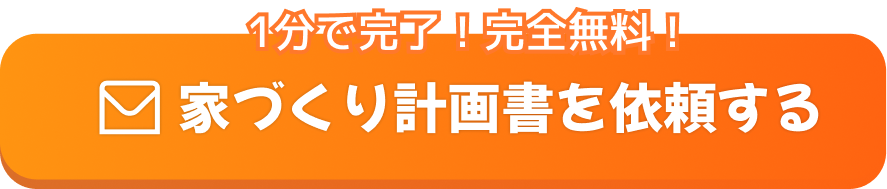
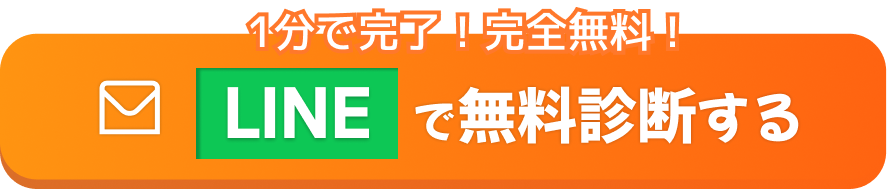
[Mod] line cv

Changed region(s): [[0.1826, 0.3439, 0.9436, 0.8466]]

diff --git a/index.html b/index.html
@@ -21,7 +21,7 @@
         <span></span>
       </button>
       <nav class="header-nav" id="headerNav">
-        <a href="#section2" class="nav-item">住まぽとは</a>
+        <a href="#section2" class="nav-item">住まぽちとは</a>
         <a href="#section4" class="nav-item">選ばれる理由</a>
         <a href="#section3" class="nav-item">安心サポート</a>
         <a href="#section8" class="nav-item">ご利用の流れ</a>
@@ -34,17 +34,19 @@
   <section class="main-section" style="background-image: url(img/main_bg.png)">
     <div class="main-content">
       <div class="main-left">
-        <img src="img/main_text2.png" alt="" class="main-text2" />
-        <img src="img/main_text1.png" alt="" class="main-text1" />
-        <img src="img/main_text3.png" alt="" class="main-text3" />
-        <a href="#" class="main-cv-btn-pc"><img src="img/cv_button01.png" alt="" class="main-text4" /></a>
+        <img src="img/main_text2.png" alt="あなたの希望を叶える家作りのプロを紹介" class="main-text2" />
+        <img src="img/main_text1.png" alt="あなたに一番合ったハウスメーカーと担当者を厳選して紹介いたします！" class="main-text1" />
+        <img src="img/main_text3.png" alt="全国店舗64店舗、工務店数1001社、相談実績1万人" class="main-text3" />
+        <a href="#" class="main-cv-btn-pc">
+          <img src="img/cv_button01.png" class="main-text4" alt="1分で完了!完全無料!LINEで無料診断" />
+        </a>
       </div>
       <div class="main-right">
-        <img src="img/main_circle.png" alt="" class="main-circle" />
-        <img src="img/main_house.png" alt="" class="main-house" />
-        <img src="img/campaign_small.png" alt="キャンペーン" class="main-campaign" />
+        <img src="img/main_circle.png" alt="サービス完全無料!" class="main-circle" />
+        <img src="img/main_house.png" alt="夫婦" class="main-house" />
+        <img src="img/campaign_small.png" alt="Amazonギフト券5,000円分を必ずプレゼント!!" class="main-campaign" />
       </div>
-      <a href="#" class="main-cv-btn-sp"><img src="img/cv_button01.png" alt="" class="main-text4" /></a>
+      <a href="#" class="main-cv-btn-sp"><img src="img/cv_button01.png" alt="1分で完了!完全無料!LINEで無料診断する" class="main-text4" /></a>
     </div>
   </section>
 
@@ -52,7 +54,7 @@
   <section class="section2" id="section2">
     <div class="section-title-wrapper">
       <h2 class="section-title">
-        <img src="img/home_icon.png" alt="" class="title-icon" />
+        <img src="img/home_icon.png" alt="ホームアイコン" class="title-icon" />
         <img src="img/logo.png" alt="住まぽち" class="title-logo" />とは？
       </h2>
     </div>
@@ -65,14 +67,14 @@
         </p>
       </div>
     </div>
-    <a href="#"><img src="img/cv_button01.png" alt="" class="section2-btn" /></a>
+    <a href="#"><img src="img/cv_button01.png" alt="1分で完了!完全無料!LINEで無料診断する" class="section2-btn" /></a>
   </section>
 
   <!-- Section 4 -->
   <section class="section4" id="section4">
     <div class="section-title-wrapper">
       <h2 class="section-title">
-        <img src="img/home_icon.png" alt="" class="title-icon" />
+        <img src="img/home_icon.png" alt="ホームアイコン" class="title-icon" />
         <img src="img/logo.png" alt="住まぽち" class="title-logo" />が<span class="highlight-orange">選ばれる理由</span>
       </h2>
     </div>
@@ -82,7 +84,7 @@
         <h4 class="reason-title">専門アドバイザーが最初から最後まで丁寧にサポート</h4>
         <div class="reason-content">
           <div class="reason-image-wrapper">
-            <img src="img/section3_img3.png" alt="" class="reason-image" />
+            <img src="img/section3_img3.png" alt="専門アドバイザーが最初から最後まで丁寧にサポート" class="reason-image" />
           </div>
           <p class="reason-text">
             専門アドバイザーが最初から最後まで丁寧にサポート。家づくりの不安や疑問をすぐに解消できるから、初めての方でも安心して進められます。
@@ -94,7 +96,7 @@
         <h4 class="reason-title">審査を通過した優良工務店のみをご紹介</h4>
         <div class="reason-content">
           <div class="reason-image-wrapper">
-            <img src="img/section3_img1.jpg" alt="" class="reason-image" />
+            <img src="img/section3_img1.jpg" alt="審査を通過した優良工務店のみをご紹介" class="reason-image" />
           </div>
           <p class="reason-text">
             審査を通過した優良工務店のみをご紹介。しつこい営業は一切なく、お断り代行も対応するので気軽にご相談いただけます。
@@ -106,7 +108,7 @@
         <h4 class="reason-title">あなた専用の家づくり計画書を無料で作成</h4>
         <div class="reason-content">
           <div class="reason-image-wrapper">
-            <img src="img/section3_img2.png" alt="" class="reason-image" />
+            <img src="img/section3_img2.png" alt="あなた専用の家づくり計画書を無料で作成" class="reason-image" />
           </div>
           <p class="reason-text">
             あなた専用の家づくり計画書を無料で作成。予算・希望に合わせた最適なプランをご提案し、契約後もしっかりフォローします。
@@ -115,14 +117,14 @@
       </div>
     </div>
 
-    <a href="#"><img src="img/cv_button01.png" alt="" class="section2-btn" /></a>
+    <a href="#"><img src="img/cv_button01.png" alt="1分で完了!完全無料!LINEで無料診断する" class="section2-btn" /></a>
   </section>
 
   <!-- Section 3 -->
   <section class="section3" id="section3">
     <div class="section-title-wrapper">
       <h2 class="section-title">
-        <img src="img/home_icon.png" alt="" class="title-icon" />
+        <img src="img/home_icon.png" alt="ホームアイコン" class="title-icon" />
         工務店を紹介後も<span class="highlight-orange">しっかりフォロー</span>
       </h2>
     </div>
@@ -155,7 +157,7 @@
   <section class="section8" id="section8">
     <div class="section-title-wrapper">
       <h2 class="section-title">
-        <img src="img/home_icon.png" alt="" class="title-icon" />
+        <img src="img/home_icon.png" alt="ホームアイコン" class="title-icon" />
         ご利用の<span class="highlight-orange">流れ</span>
       </h2>
     </div>
@@ -207,7 +209,7 @@
         </div>
       </div>
 
-      <a href="#"><img src="img/cv_button01.png" alt="今すぐ計画書を作ってもらう" class="section2-btn" /></a>
+      <a href="#"><img src="img/cv_button01.png" alt="1分で完了!完全無料!LINEで無料診断する" class="section2-btn" /></a>
     </div>
   </section>
 
@@ -216,7 +218,7 @@
   <section class="section5" id="section5">
     <div class="section-title-wrapper">
       <h2 class="section-title">
-        <img src="img/home_icon.png" alt="" class="title-icon" />
+        <img src="img/home_icon.png" alt="ホームアイコン" class="title-icon" />
         よくある<span class="highlight-orange">質問</span>
       </h2>
     </div>
@@ -282,7 +284,7 @@
         </div>
       </details>
     </div>
-    <a href="#"><img src="img/cv_button01.png" alt="" class="section2-btn" /></a>
+    <a href="#"><img src="img/cv_button01.png" alt="1分で完了!完全無料!LINEで無料診断する" class="section2-btn" /></a>
   </section>
 
   <!-- Section 6 - Cases -->
@@ -290,7 +292,7 @@
     <img src="img/house_bg.png" alt="" class="section6-bg" />
     <div class="section-title-wrapper">
       <h2 class="section-title">
-        <img src="img/home_icon.png" alt="" class="title-icon" />
+        <img src="img/home_icon.png" alt="ホームアイコン" class="title-icon" />
         お客様の<span class="highlight-orange">建築実例</span>
       </h2>
     </div>
@@ -359,7 +361,7 @@
     <div class="section10-content">
       <div class="section-title-wrapper">
         <h2 class="section-title">
-          <img src="img/home_icon.png" alt="" class="title-icon" />
+          <img src="img/home_icon.png" alt="ホームアイコン" class="title-icon" />
           他サービスとの<span class="highlight-orange">違い</span>
         </h2>
       </div>
@@ -397,7 +399,7 @@
         </div>
       </div>
 
-      <a href="#"><img src="img/cv_button01.png" alt="無料で家づくり計画書を依頼する" class="section2-btn" /></a>
+      <a href="#"><img src="img/cv_button01.png" alt="1分で完了!完全無料!LINEで無料診断する" class="section2-btn" /></a>
     </div>
   </section>
 
@@ -406,7 +408,7 @@
     <div class="section11-content">
       <div class="section-title-wrapper">
         <h2 class="section-title">
-          <img src="img/home_icon.png" alt="" class="title-icon" />
+          <img src="img/home_icon.png" alt="ホームアイコン" class="title-icon" />
           今だけ<span class="highlight-orange">特典</span>
         </h2>
       </div>
@@ -415,7 +417,7 @@
       <img src="img/campaign_large.png" alt="Amazonギフト5,000円分プレゼント" class="campaign-banner campaign-banner-pc" />
       <img src="img/campaign_large_sp.jpg" alt="Amazonギフト5,000円分プレゼント" class="campaign-banner campaign-banner-sp" />
 
-      <a href="#"><img src="img/cv_button01.png" alt="特典付きで家づくり計画書を依頼する" class="section2-btn" /></a>
+      <a href="#"><img src="img/cv_button01.png" alt="1分で完了!完全無料!LINEで無料診断する" class="section2-btn" /></a>
     </div>
   </section>
 
@@ -469,7 +471,7 @@
         <div class="section16-image-wrapper">
           <img src="img/message01.jpg" alt="今すぐ決める必要はありません" class="section16-message section16-message-pc" />
           <img src="img/message01_sp.png" alt="今すぐ決める必要はありません" class="section16-message section16-message-sp" />
-          <img src="img/cv_button01.png" alt="無料で家づくり計画書を依頼する" class="section16-button" />
+          <img src="img/cv_button01.png" alt="1分で完了!完全無料!LINEで無料新dな" class="section16-cv-btn" />
         </div>
       </a>
     </div>
